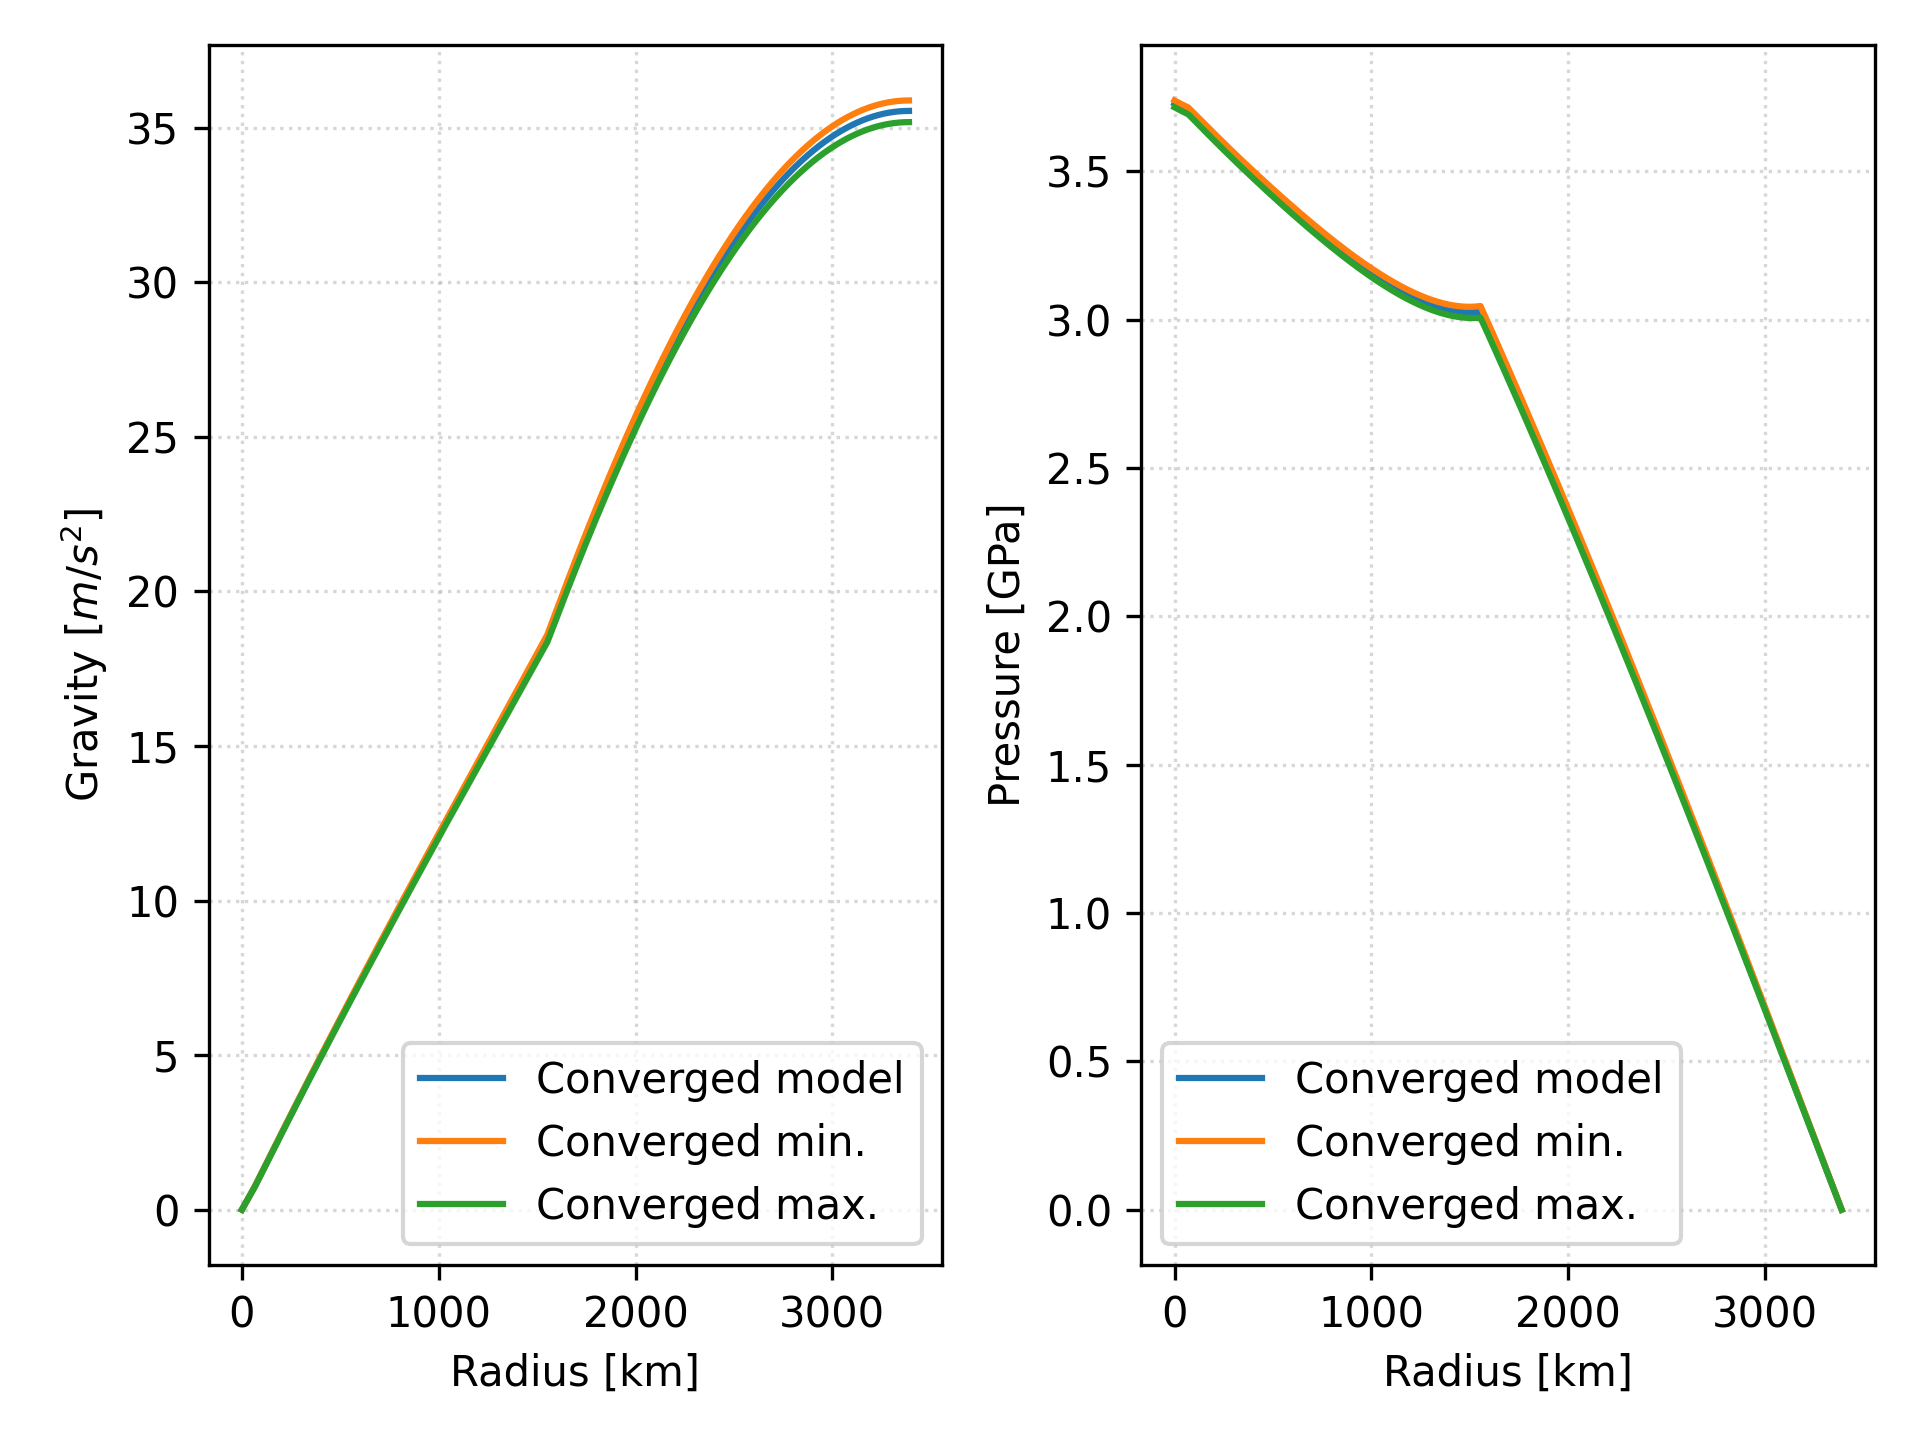
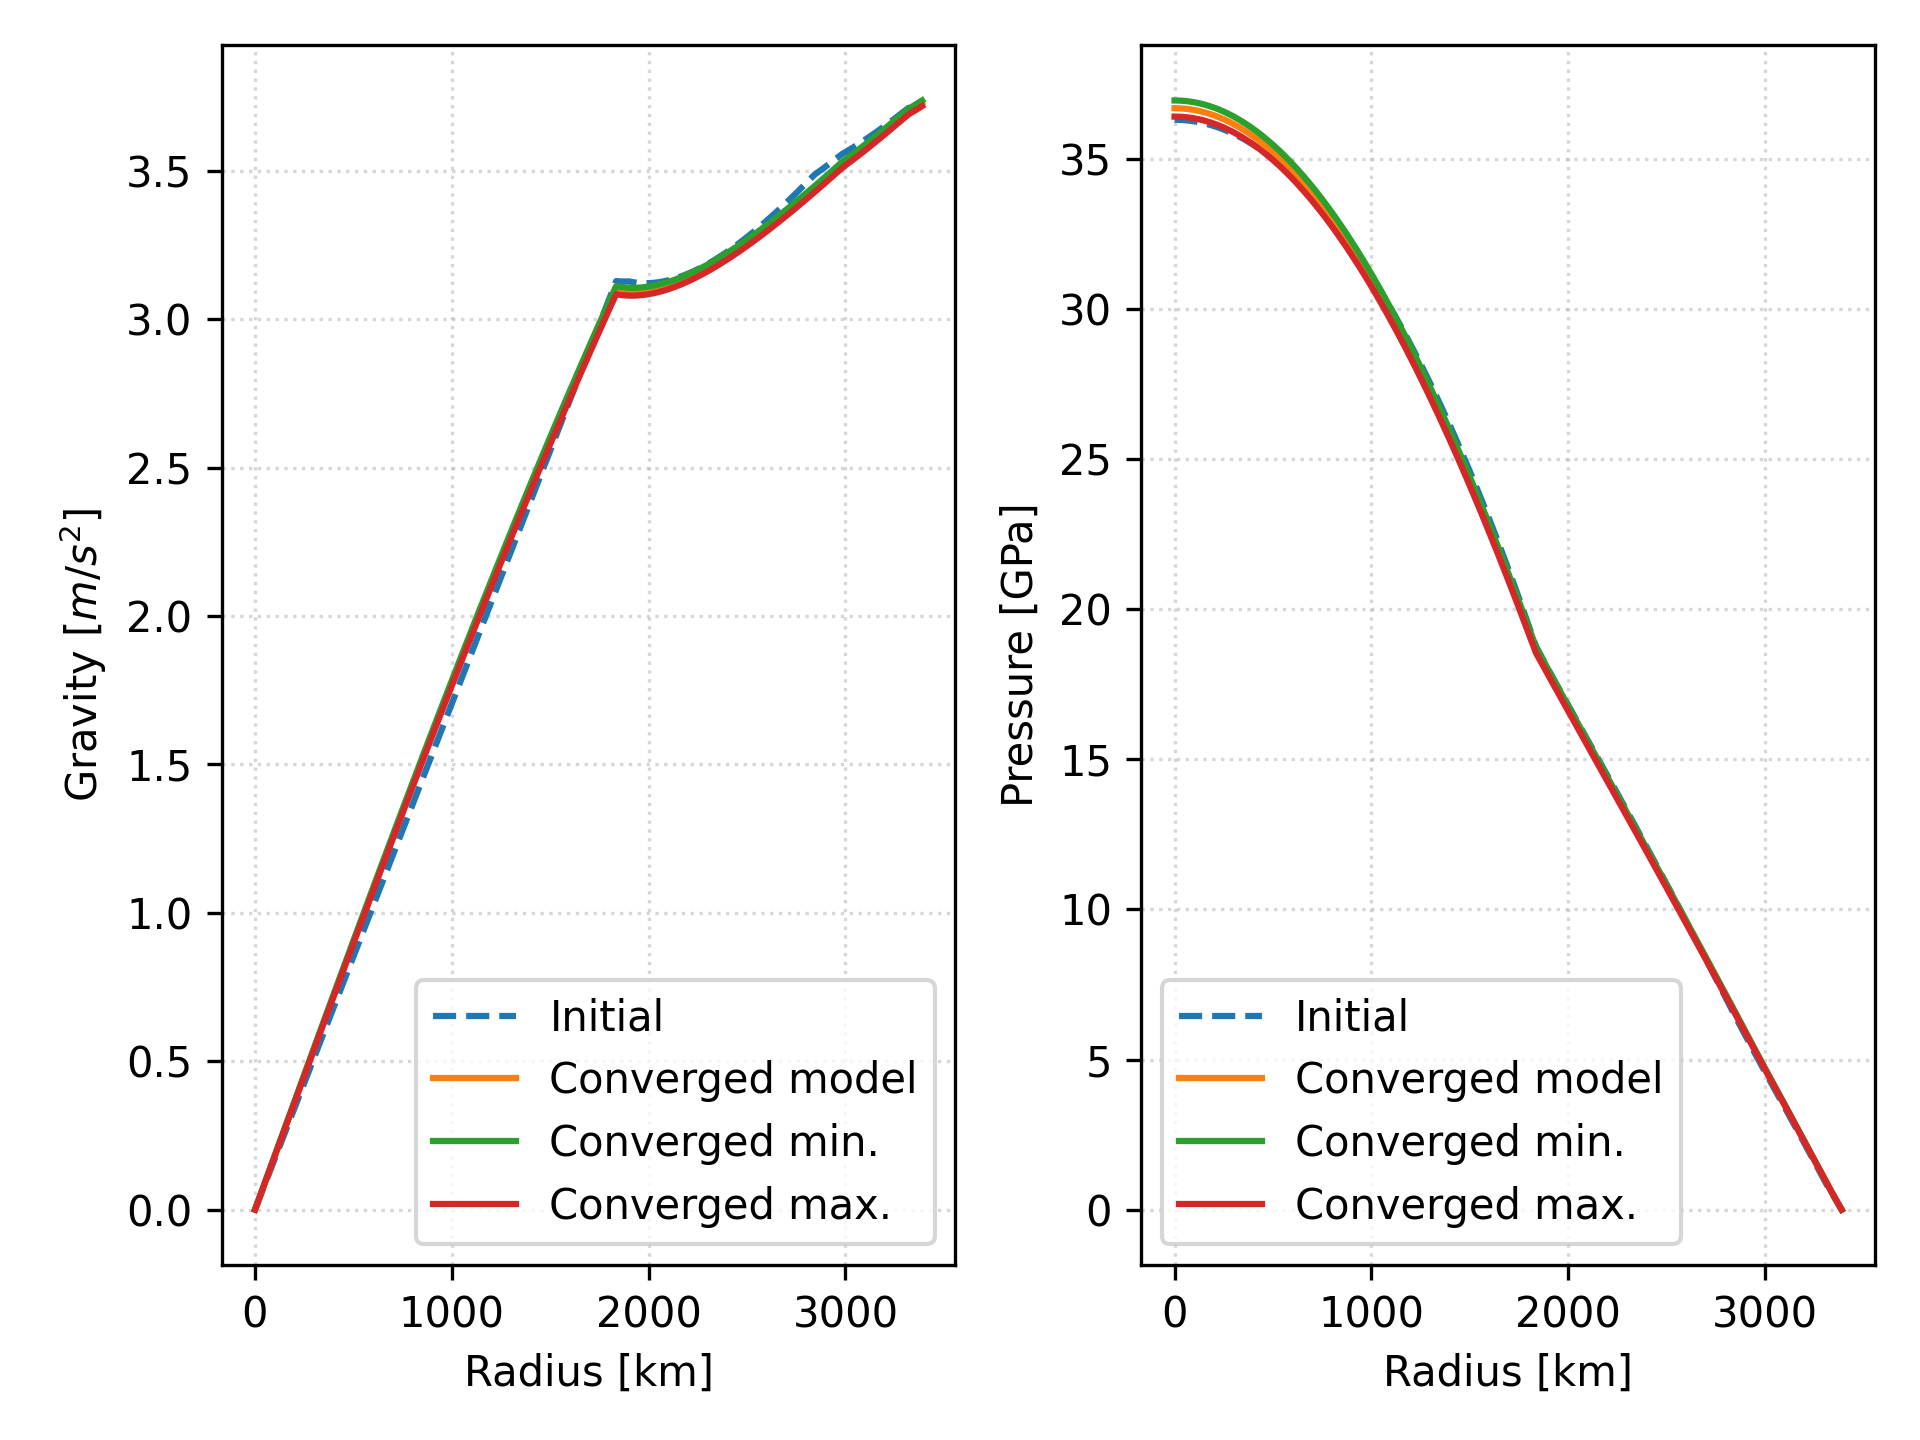
Updated the results until burnman

diff --git a/a1/q56.py b/a1/q56.py
@@ -33,8 +33,11 @@ plt.grid()
 Mars = Planet("Mars", layers, rho_vals, alpha_arr, Cp_arr, eta_arr, k_arr, dr, 5454395, "Euler")
 Mars1 = Planet("Mars min.", layers, rho_vals, alpha_arr, Cp_arr, eta_arr, k_arr, dr, 5454395, "Euler")
 Mars2 = Planet("Mars max.", layers, rho_vals, alpha_arr, Cp_arr, eta_arr, k_arr, dr, 5454395, "Euler")
+r_km = (Mars.radius-Mars.r)/1E3
 rho_initial = np.array([Mars.rho(r_val) for r_val in Mars.r])
-plt.plot(rho_initial, (Mars.radius-Mars.r)/1E3, label="Initial")
+plt.plot(rho_initial, r_km, label="Initial")
+ax1.plot(Mars.r/1E3, Mars.g, label="Initial", linestyle="--")
+ax0.plot(Mars.r/1E3, Mars.p/1E9, label="Initial", linestyle="--")
 
 Mars.report_results()
 
@@ -42,26 +45,25 @@ Mars.compute_T(2269.0, qs, gamma)
 Mars.update_density(tol)
 Mars.compute_MoI()
 Mars.report_results()
-r_km = (Mars.radius-Mars.r)/1E3
 plt.plot(np.array([Mars.rho(r_val) for r_val in Mars.r]), r_km, label="Converged model")
-ax0.plot(r_km, Mars.g, label="Converged model")
-ax1.plot(r_km, Mars.p/1E9, label="Converged model")
+ax1.plot(Mars.r/1E3, Mars.g, label="Converged model")
+ax0.plot(Mars.r/1E3, Mars.p/1E9, label="Converged model")
 
 Mars1.compute_T(2173.0, qs, gamma)
 Mars1.update_density(tol)
 Mars1.compute_MoI()
 Mars1.report_results()
 plt.plot(np.array([Mars1.rho(r_val) for r_val in Mars1.r]), r_km, label="Converged min.", linestyle="--")
-ax0.plot(r_km, Mars1.g, label="Converged min.")
-ax1.plot(r_km, Mars1.p/1E9, label="Converged min.")
+ax1.plot(Mars.r/1E3, Mars1.g, label="Converged min.")
+ax0.plot(Mars.r/1E3, Mars1.p/1E9, label="Converged min.")
 
 Mars2.compute_T(2373.0, qs, gamma)
 Mars2.update_density(tol)
 Mars2.compute_MoI()
 Mars2.report_results()
 plt.plot(np.array([Mars2.rho(r_val) for r_val in Mars2.r]), r_km, label="Converged max.", linestyle="--")
-ax0.plot(r_km, Mars2.g, label="Converged max.")
-ax1.plot(r_km, Mars2.p/1E9, label="Converged max.")
+ax1.plot(Mars.r/1E3, Mars2.g, label="Converged max.")
+ax0.plot(Mars.r/1E3, Mars2.p/1E9, label="Converged max.")
 
 plt.plot(data_rho[:,0], (Mars.radius/1E3)-data_rho[:,1], linestyle="--", label="Literature")
 
@@ -71,4 +73,4 @@ ax1.legend()
 plt.legend()
 plt.savefig("Mars_rho_profile_iterated.png", dpi=300)
 fig.savefig("Mars_gp_profiles_iterated.png", dpi=300)
-plt.show()
+# plt.show()

diff --git a/a1/profile1D.py b/a1/profile1D.py
@@ -472,10 +472,9 @@ class Planet:
         return self.T
     
     def update_density(self, tol:float) -> None:
-        K = DensityProfile(self.layers, [149.02E9, 137.81E9, 137.81E9, 137.81E9, 137.81E9, 104.32E9])
-        alpha = DensityProfile(self.layers, [5.7597E-5, 2.0363E-5, 2.0363E-5, 2.0363E-5, 2.1424E-5, 2.1424E-5])
-
-        rho = DensityProfile(self.layers, [5555.0, 3496.35, 3496.35, 3496.35, 3496.35, 3050.0])
+        K = DensityProfile(self.layers, [125.8E9, 131.13E9, 131.13E9, 131.13E9, 131.13E9, 102.34E9])
+        alpha = DensityProfile(self.layers, [3.8E-5, 2.0363E-5, 2.0363E-5, 2.0363E-5, 2.0363E-5, 2.1424E-5])
+        rho = DensityProfile(self.layers, [5330.0, 3496.35, 3496.35, 3496.35, 3361.2, 3121.95])
 
         rho_current = np.array([rho(r_val) for r_val in self.r])
         alpha_current = np.array([alpha(r_val) for r_val in self.r])
@@ -487,8 +486,13 @@ class Planet:
         T_prev = 298*np.ones_like(T_current)
 
         for i in range(150):
-            rho_new = rho_current*(1 - alpha_current * (T_current-T_prev) + (p_current-p_prev)/K_current)
-            # rho_new = rho_current*(1 - alpha_current * (T_prev-T_current) + (p_prev-p_current)/K_current)
+            if type(p_prev) != np.ndarray:
+                T_prev_arr = np.array([T_prev(r_val) for r_val in self.r])
+                p_prev_arr = np.array([p_prev(r_val) for r_val in self.r])
+                
+                rho_new = rho_current*(1 - alpha_current * (T_current-T_prev_arr) + (p_current-p_prev_arr)/K_current)
+            else:
+                rho_new = rho_current*(1 - alpha_current * (T_current-T_prev) + (p_current-p_prev)/K_current)
             
             coeffs0 = np.polyfit(self.r[self.layer_indices[0]: 1+self.layer_indices[1]], rho_new[self.layer_indices[0]: 1+self.layer_indices[1]], 3)
             rho0 = np.poly1d(coeffs0)
